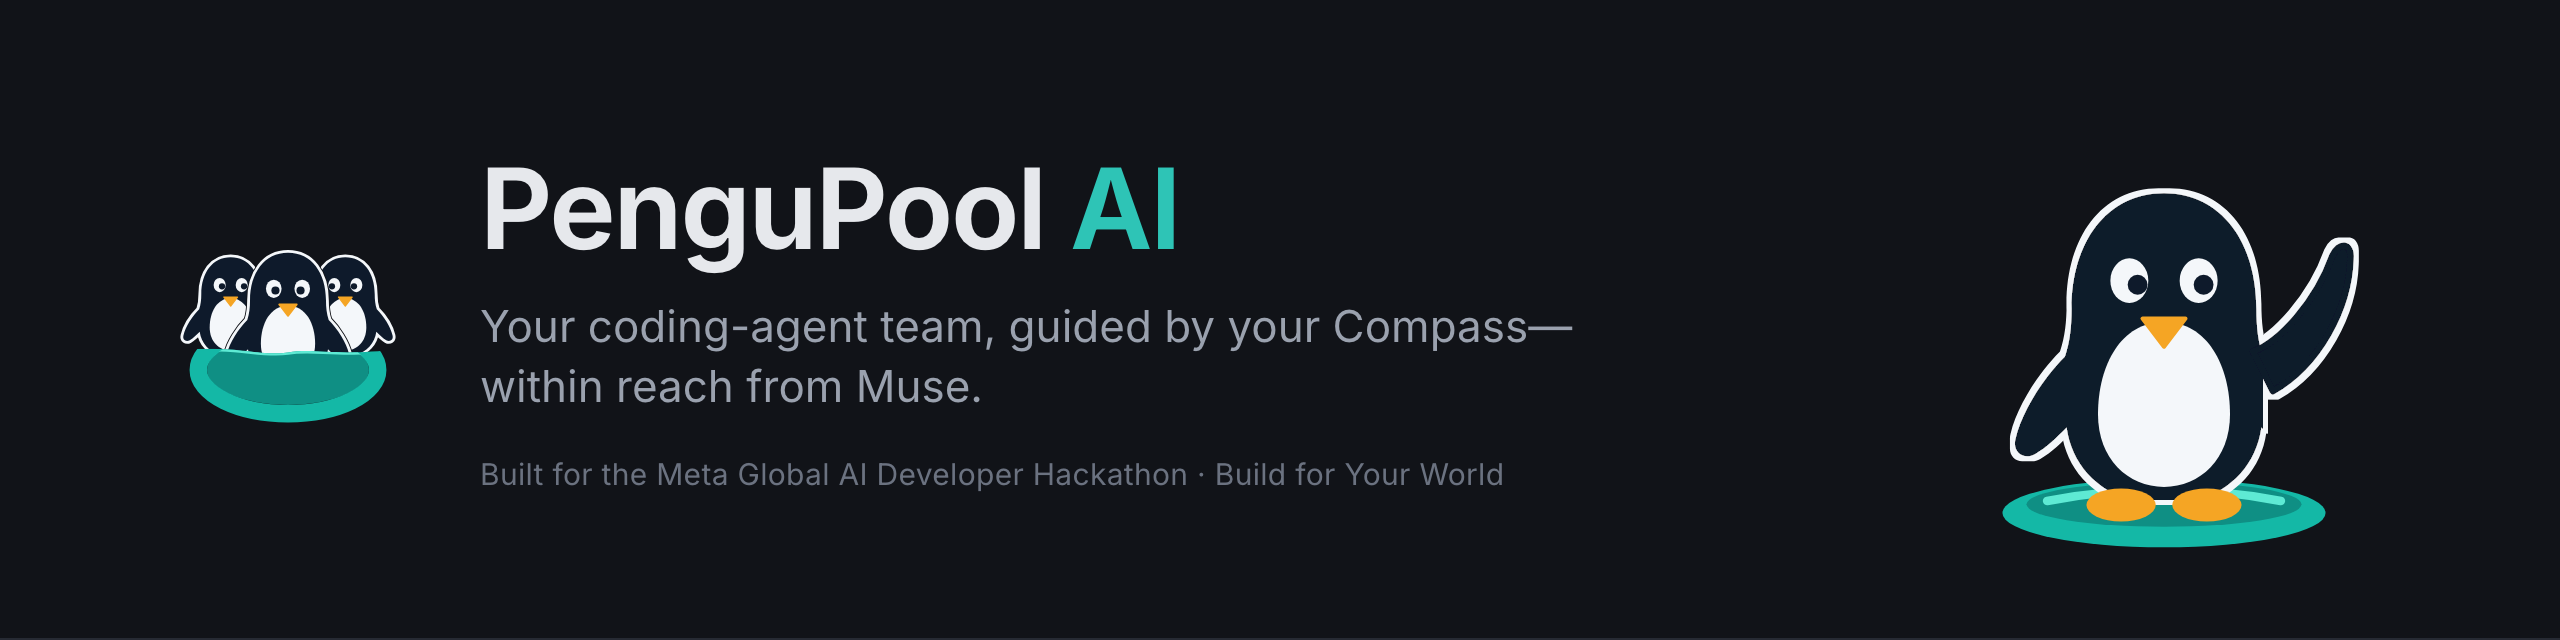
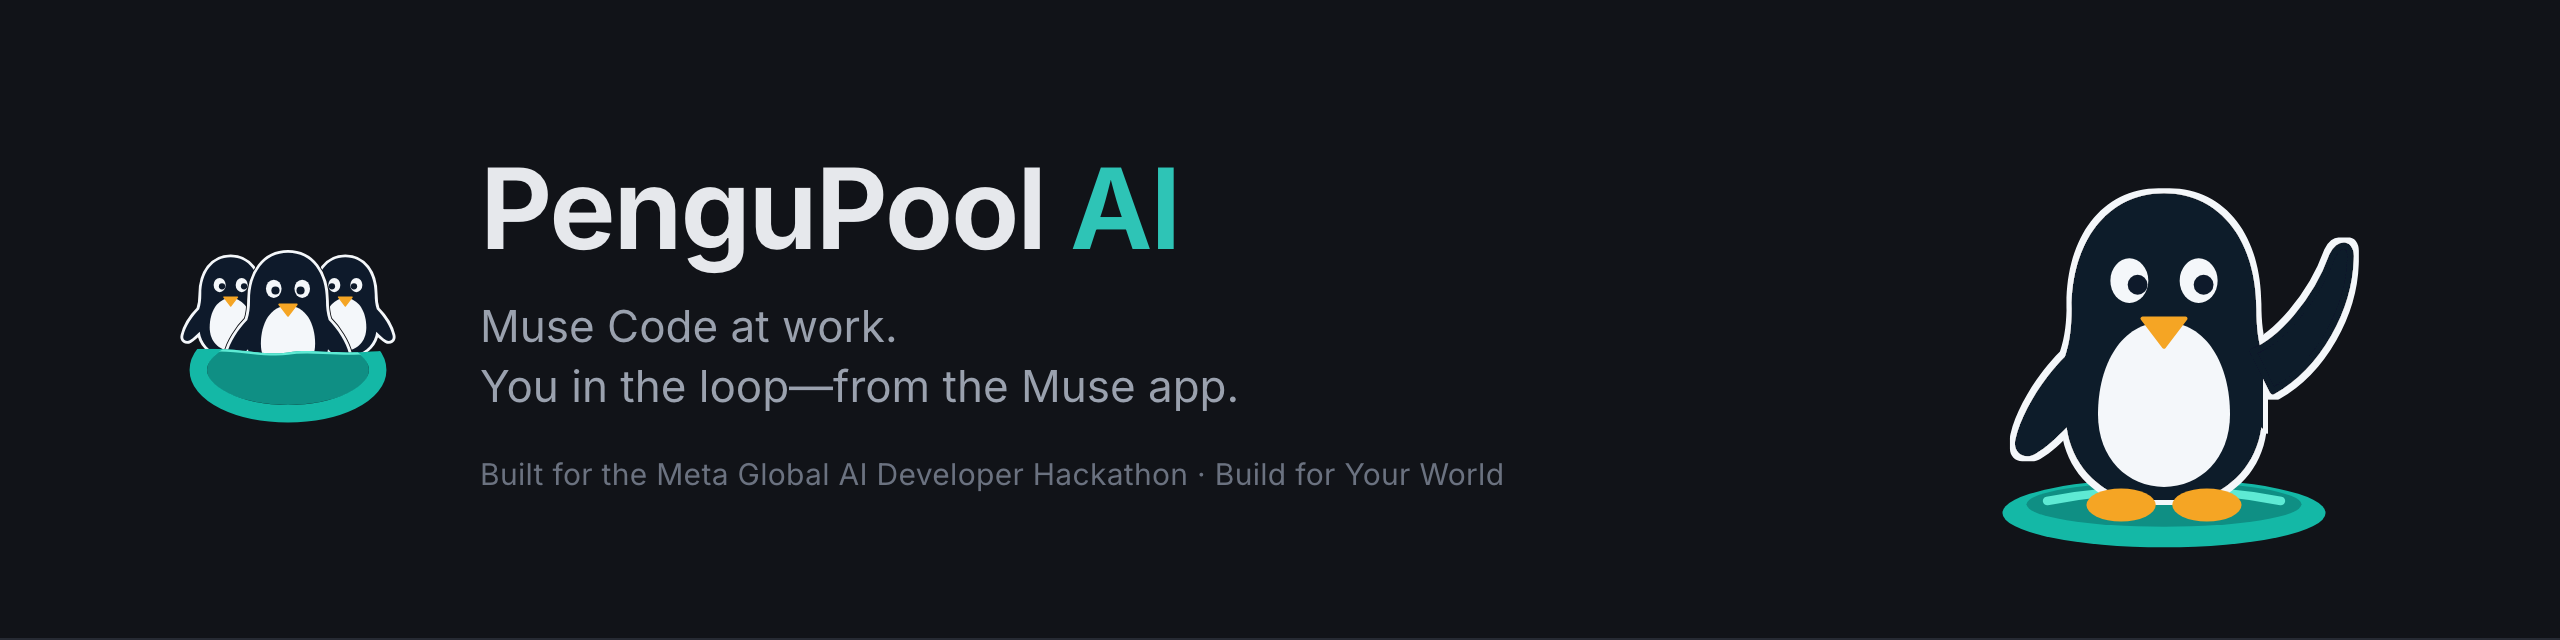
Docs: Muse in the loop (Meta-judge critique)
The hero and banner lead with Muse Code at work and the owner in the loop from the Muse app; Built with
Meta becomes Muse in the loop, before the features, with a data-flow diagram standing in for real
footage and the model-responsibilities line. The map screenshot moves under Also works with your
existing agents, labelled illustrative. The first session is a Muse Code task and the phone loop;
phone.md gets Try it and names agents' questions among what a device answers; harnesses.md gets a Muse
plugin section. A judging-evidence table sits under Demo. No video link or date is promised.

Changed region(s): [[0.1875, 0.4688, 0.625, 0.625]]

diff --git a/README.md b/README.md
@@ -1,26 +1,52 @@
 <picture>
   <source media="(prefers-color-scheme: dark)" srcset="assets/screenshots/banner-dark.png">
-  <img alt="PenguPool AI: your coding-agent team, guided by your Compass, within reach from Muse" src="assets/screenshots/banner-light.png">
+  <img alt="PenguPool AI: Muse Code at work, with you in the loop from the Muse app" src="assets/screenshots/banner-light.png">
 </picture>
 
-<p align="center">Run Muse Code and other supported agents side by side, carry your preferences into their sessions, and use the Muse app to follow work and answer supported team requests from your phone.</p>
+<p align="center">PenguPool brings your coding-agent team, your preferences and its waiting questions into one workspace. Run Muse Code on your Mac, follow the team from the Muse app, and send your answer back to the session that needs it.</p>
 
 <p align="center">
   <a href="https://github.com/nduwork/pengupool-ai/releases/latest">Download</a> ·
-  <a href="#demo">Watch the demo</a> ·
+  <a href="#muse-in-the-loop">See the Muse workflow</a> ·
   <a href="docs/getting-started.md">Get started</a> ·
   <a href="docs/phone.md">Muse setup</a>
 </p>
 
 <p align="center"><sub>Built for the Meta Global AI Developer Hackathon · Build for Your World</sub></p>
 
+## Muse in the loop
+
+<!-- MUSE LOOP MEDIA: a real desktop-and-phone pair from one recorded question, captioned:
+"A Muse Code session asks a project question; the owner answers in the Muse app; the session continues
+with that answer. Tool-permission prompts stay in the terminal." Until that footage exists, the
+diagram below stands in. -->
+
+```mermaid
+flowchart LR
+  C["Muse Code on Mac"] -->|"Hooks: context and session events"| P["PenguPool: team, Compass, waiting requests"]
+  P -->|"Paired API over Tailscale Serve"| M["Owner in Muse app"]
+  M -->|"Answer or instruction"| P
+  P -->|"Answer delivery / owner input"| C
+```
+
+<sub>The arrows show data flow, not server push or automatic phone notifications.</sub>
+
+**On your Mac, Muse Code works with your team's context.** PenguPool's Muse plugin connects session
+start, prompts and turn events to the team's context, your Compass and a specialist's own journal. That
+lets the coding agent work within the preferences you have already recorded.
+
+**On your phone, Muse brings the question back to you.** A paired Muse device can read the team's
+waiting requests, send your instructions and answer supported questions and check-ins. PenguPool returns
+your answer to the relevant session through its existing owner-input and answer paths.
+
+**The contribution is the connection:** a coding-agent workspace that keeps the owner's context and
+decisions in the loop across the Mac and Muse app. Other supported agents can join the same workspace.
+
+Coding uses the model selected by Muse Code. Memory/check-in triage uses a separately configured System
+One model; the local Tev1 default is Together AI's Qwen-based model.
+[Model responsibilities](docs/harnesses.md#who-does-what).
 
 ## What you can do
-
-<picture>
-  <source media="(prefers-color-scheme: dark)" srcset="assets/screenshots/screen-map-dark.webp">
-  <img alt="The team map: team-lead-agent with three specialists (pr-review-agent on Muse Code) and an SME, a lit route, and an open ask" src="assets/screenshots/screen-map-light.webp">
-</picture>
 
 - **Run agents side by side.** Claude Code, Codex, Muse Code, pi and OMP, plus Claude Code through
   Ollama, each in its own terminal session. Sessions keep running when the app or its host restarts.
@@ -34,19 +60,16 @@
   you*, with enough context to decide. With the Muse app paired, you answer team questions and
   check-ins from your phone; permission prompts are answered in the agent's terminal.
 
-## Built with Meta
+### Also works with your existing agents
 
-**Muse Code does the coding.** PenguPool launches Meta's coding agent and connects its lifecycle hooks
-to team context, your Compass and specialists' journals. Muse Code controls its model selection;
-PenguPool does not pin a Muse model version.
+Claude Code, Codex, pi and OMP join the same workspace, teams and Compass as Muse Code.
 
-**Muse keeps you connected.** Pair the Muse app with PenguPool over Tailscale Serve to follow sessions,
-send instructions and answer supported team requests. Agents' tool-permission dialogs stay in the
-terminal.
+<picture>
+  <source media="(prefers-color-scheme: dark)" srcset="assets/screenshots/screen-map-dark.webp">
+  <img alt="The team map: team-lead-agent with three specialists (pr-review-agent on Muse Code) and an SME, a lit route, and an open ask" src="assets/screenshots/screen-map-light.webp">
+</picture>
 
-**Triage is separate.** PenguPool requires a configured System One decision model for its memory and
-check-in judgments. Its local setup default is Together AI's Tev1 (a Qwen fine-tune) through Ollama,
-which is not a Meta model. Who does what: [model responsibilities](docs/harnesses.md#who-does-what).
+<sub>Illustrative UI with synthetic project data.</sub>
 
 ## Install
 
@@ -54,8 +77,8 @@ which is not a Meta model. Who does what: [model responsibilities](docs/harnesse
    [latest release](https://github.com/nduwork/pengupool-ai/releases/latest). It runs on macOS on
    Apple Silicon.
 2. Open the disk image, drag **PenguPool AI.app** onto Applications, and open it.
-3. Install and sign in to at least one coding agent yourself (for example Claude Code). PenguPool runs
-   the agents it finds installed; it never installs them.
+3. For the walkthrough, install and sign in to **Muse Code**, Meta's coding agent. PenguPool also
+   supports Claude Code, Codex, pi and OMP; it uses agents already installed on your Mac.
 
 The app starts its host in the background and keeps its data in `~/.pengupool-ai/v2`. To build from
 source instead, see [CONTRIBUTING.md](CONTRIBUTING.md).
@@ -72,23 +95,33 @@ source instead, see [CONTRIBUTING.md](CONTRIBUTING.md).
    Settings → Decision model: pick it, **Save**, **Check connection**, then **Use for triage**.
 3. **Decide agent permissions.** Settings → Agents → Agent permissions lets agents run four PenguPool
    team commands without a prompt, or keep asking. Either choice is fine.
-4. **Start.** *Start with a specialist* (a team, with a work folder for the specialists) or *Start in a
-   folder* (one agent, ⌘N).
-5. **Work.** Talk to the agent in its terminal. What needs you appears in *Waiting on you* (the bell)
-   and as a notification.
+4. **Start with Muse Code.** Choose *Start in a folder*, select a small demo repository and pick Muse
+   Code. Ask it to inspect the project and propose one small improvement, with a clear question for you
+   before changing it. (For a team, *Start with a specialist* and select Muse Code in the agent picker.)
+5. **Try the phone loop.** Follow [Muse setup](docs/phone.md), open the team's supported pending
+   question in Muse, reply, and confirm that the same session receives your answer. You can keep using
+   PenguPool from the Mac without pairing a phone; what needs you also appears in *Waiting on you* (the
+   bell) and as a notification.
 
 Step by step: [docs/getting-started.md](docs/getting-started.md).
 
 
 ## Demo
 
-<!-- DEMO VIDEO: link once the video exists. -->
-The demo video is coming. It walks through a Muse Code session at work, answering its question from
-the Muse app, and a specialist reusing its journal on the next job. Meanwhile, two short loops:
+Two short loops of the app, made from real app captures with demo data:
 
 <p align="center"><img src="assets/media/readme-a-specialist.gif" width="800" alt="Start a team from the Welcome screen: pick two specialists and the team appears on the map with its lead."></p>
 
 <p align="center"><img src="assets/media/readme-b-compass.gif" width="800" alt="A member's ask reaches the lead, PenguPool answers it from the owner's confident Compass line, and an ask with no clear line goes to the owner."></p>
+
+What the demo shows, against the [hackathon's](https://dev.meta.ai/events/global-hackathon) framing:
+
+| Official framing | What to demonstrate |
+| --- | --- |
+| Build for Your World | The builder's real friction: repeating context and repeatedly checking desktop sessions. The same preference or decision carried into the work. |
+| Creativity | Muse serves both the coding work and the owner's remote participation, in one concrete workflow. |
+| Technical ambition | The Muse plugin's hooks and the paired-device answer path, plus specialist-specific memory and team context. |
+| Working results | One real question-and-answer round trip, the agent's continued work and a verifiable output; the release and setup links above. |
 
 ## Help
 

diff --git a/docs/getting-started.md b/docs/getting-started.md
@@ -3,8 +3,9 @@
 ## What you need
 
 - A Mac with Apple Silicon.
-- At least one coding agent installed and signed in on its own: Claude Code, Codex, Muse Code, pi or
-  OMP. PenguPool runs the agents it finds on your login `PATH`; it never installs or signs in to them.
+- At least one coding agent installed and signed in on its own. This walkthrough uses **Muse Code**,
+  Meta's coding agent; PenguPool also supports Claude Code, Codex, pi and OMP. It runs the agents it
+  finds on your login `PATH`; it never installs or signs in to them.
 - A decision model for triage, either local through [Ollama](https://ollama.com) or online. PenguPool
   uses it to decide where your preferences belong and whether a check-in can go on. It is required.
 
@@ -67,12 +68,19 @@ Details: [Agents (harnesses)](harnesses.md#agent-permissions).
 
 - **Start with a specialist.** Starts a new team led by team-lead-agent. Tick the specialists you want
   (seven common ones are suggested; search reaches the rest), choose the work folder they will use,
-  pick the agent, and **Start team**. The lead alone needs no folder. team-lead-agent and the other
+  select **Muse Code** in the agent picker (or another installed agent), and **Start team**. The lead alone needs no folder. team-lead-agent and the other
   specialists come from the Specialist hub (the *Specialists* page).
 - **Start in a folder** (⌘N, also *New session* in the sidebar). One agent in a folder, a new worktree
   of a repository, or a fresh clone. To start with Meta's coding agent, pick **Muse Code** as the agent.
 
-Then talk to the agent in its terminal. When it needs you (a question, a permission prompt, or a
-check-in at the end of a turn) it appears under the bell as **Waiting on you**, and as a notification.
+### A first task with Muse Code
+
+Choose **Start in a folder**, select a small demo repository and pick **Muse Code**. Ask it to inspect
+the project and propose one small improvement, with a clear question for you before changing it.
+
+When it needs you (a question, a permission prompt, or a check-in at the end of a turn) it appears
+under the bell as **Waiting on you**, and as a notification. Answer the question there, or pair the
+Muse app and answer it from your phone: see [Phone access → Try it](phone.md#try-it). Permission prompts
+are answered in the agent's terminal.
 
 Next: the [Guide](guide.md).

diff --git a/docs/phone.md b/docs/phone.md
@@ -19,14 +19,27 @@ Tailscale Serve.
 
 - See sessions and their waiting items (sessions on no team, or on a team with iOS access), and read
   your Compass.
-- Answer what it supports: an agent's check-in, and pending launch and team-change approvals, exactly as
-  the app's button would. An item already answered elsewhere is refused.
+- Answer what it supports: an agent's question, an agent's check-in, and pending launch and team-change
+  approvals, exactly as the app's button would. An item already answered elsewhere is refused.
 - Send words to a session (Chat).
 
 **Agents' tool-permission dialogs stay in the terminal.** They are listed in the app, but you answer
 them in the agent's own terminal, on your Mac.
 
 It can't change settings, teams or the Compass, and the app's own token doesn't work on the phone API.
+
+## Try it
+
+1. Start a **Muse Code** session in a small demo repository (Start in a folder, then pick Muse Code).
+2. Ask it to inspect the project and propose one small improvement, with a clear question for you
+   before changing it.
+3. When the question is waiting, open the Muse app: it shows the waiting item as a card with the
+   question and the agent's context. Reply or pick an option.
+4. Back on the Mac, the same session receives your answer and goes on.
+
+If the agent ends its turn with a plain paragraph instead of a question, nothing waits on you, and
+there is nothing to answer from the phone. A tool-permission prompt is also not on the phone; answer it
+in the terminal.
 
 ## Revoke a device
 

diff --git a/docs/harnesses.md b/docs/harnesses.md
@@ -24,6 +24,20 @@ for is not offered. GitHub Copilot and Gemini CLI are hidden: their old sessions
 | Triage: where a preference belongs, whether a check-in can go on | Your System One decision model | Required. Local default: Together AI's Tev1, a Qwen fine-tune, through Ollama (not a Meta model); or an online System One endpoint |
 | Answering from your phone | The Muse app, paired over Tailscale Serve | Supported team requests only; see [Phone access](phone.md) |
 
+## Muse plugin
+
+What it gives you: a Muse Code session that knows its team, your Compass and (for a specialist) its own
+journal, and that PenguPool can see well enough to put its questions and check-ins in front of you,
+including on your phone.
+
+How: PenguPool writes a Muse plugin manifest whose hooks call the `pengupool` CLI on session start and
+end, each prompt, each tool use and permission request, and each turn end or failed turn
+([`internal/harness/muse_plugin.go`](../internal/harness/muse_plugin.go)). The app installs and
+approves the plugin in your Muse home. Your answers, from the app or a paired Muse device, return to
+the session through PenguPool's owner-input and answer paths
+([`internal/pool/muse.go`](../internal/pool/muse.go)). Not every hook has been tested on every
+Muse version.
+
 ## Claude Code (Ollama)
 
 Offered when Claude Code and the `ollama` CLI are both installed. It is a full Claude Code session
